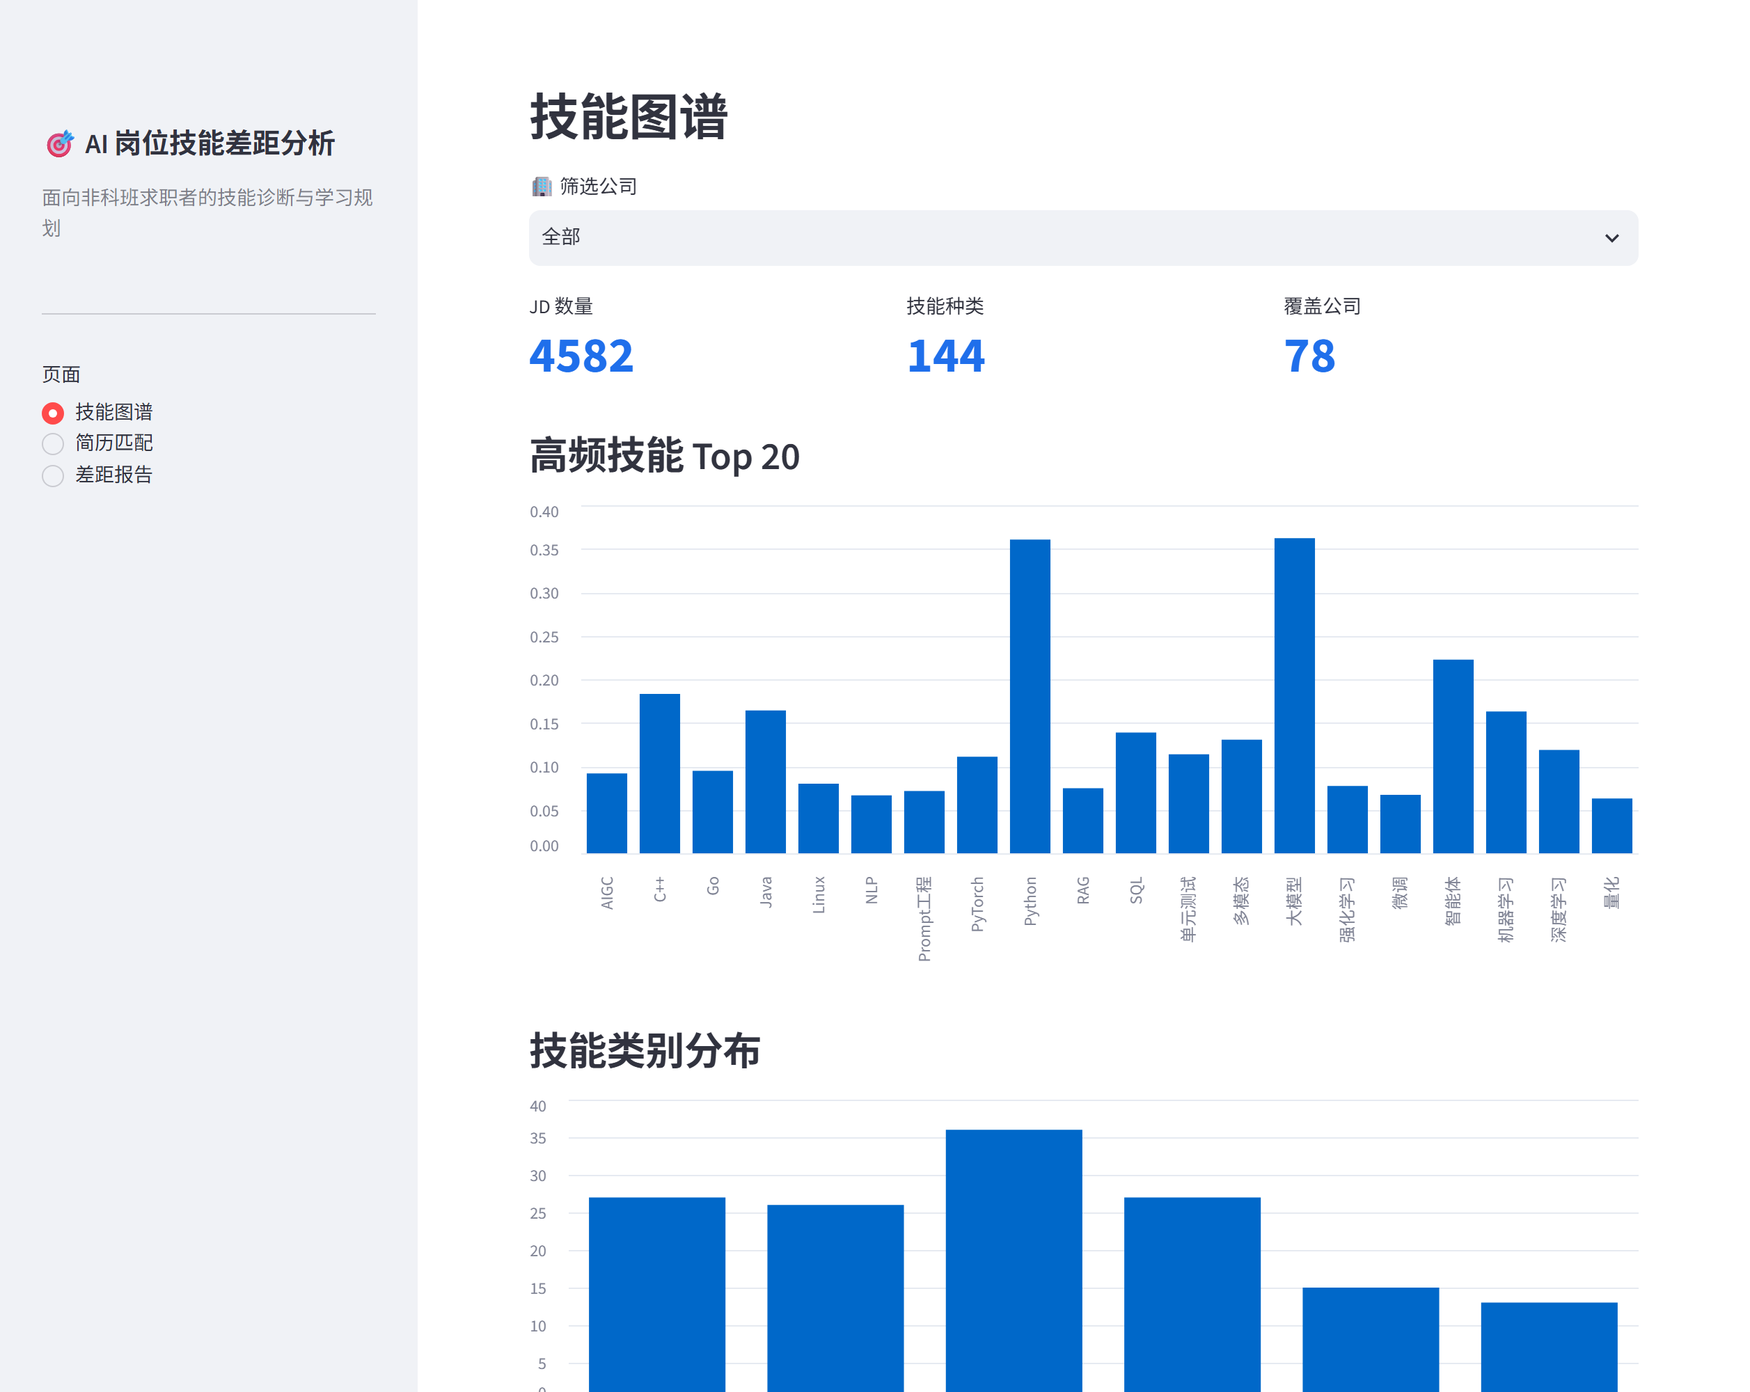
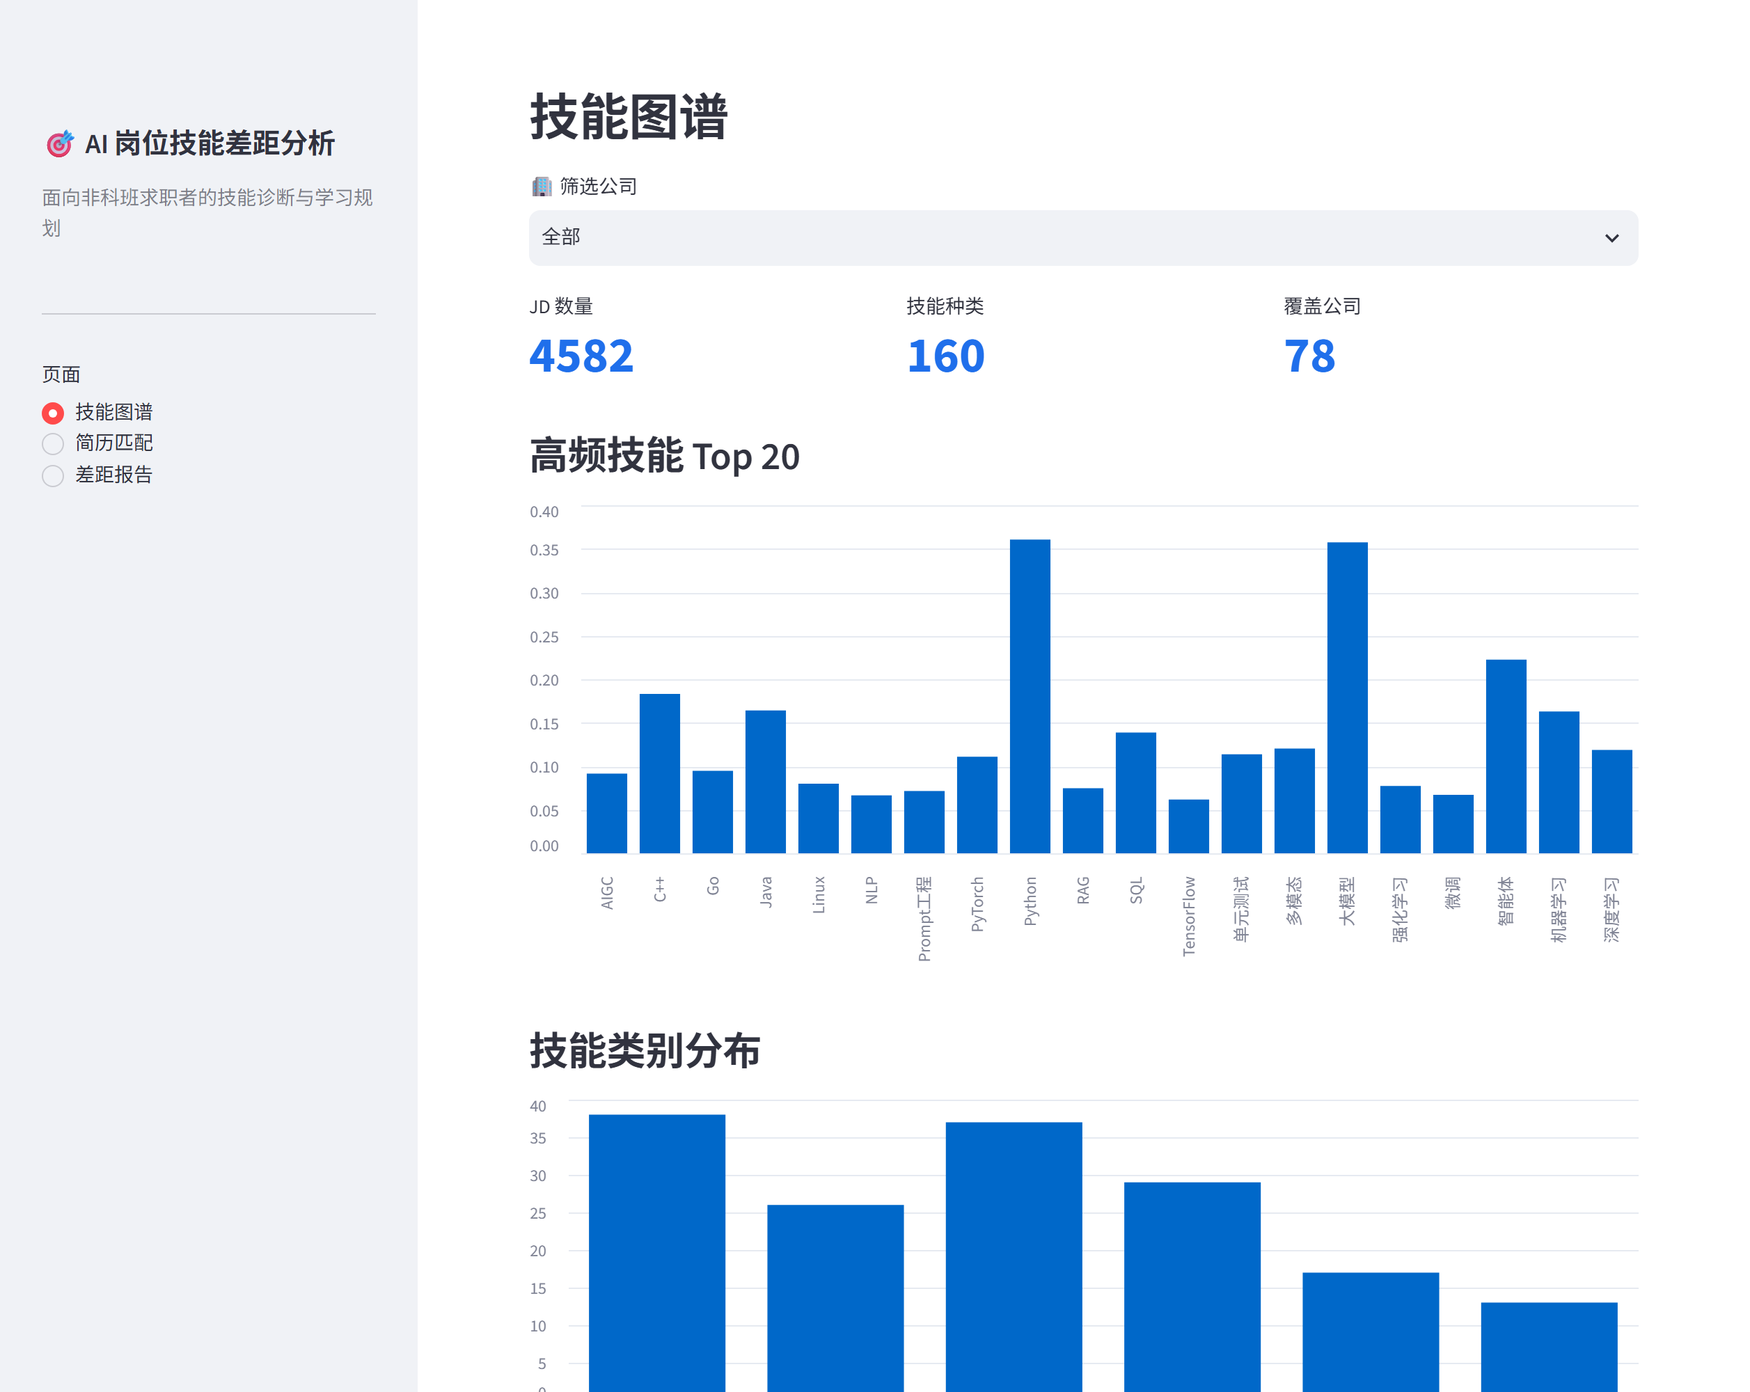
docs: README 增加公司×Top12 技能与多岗对比预览，矩阵按 JD 数排序
- README 界面预览新增两张区域截图（公司×Top12 技能矩阵、多岗对比初始界面），并用实测数字重写两段介绍
- demand_matrix 行序改为 JD 数降序（同数量按名称），避免 1~2 条 JD 的小公司以 0%/100% 占满首屏
- 新增 test_matrix_companies_sorted_by_job_count_desc；测试 207（205 快测 + 2 slow）

diff --git a/scripts/capture_screenshots.py b/scripts/capture_screenshots.py
@@ -3,7 +3,9 @@
 脚本会自行启动一个 headless 服务、截图、再关闭，无需手动 `streamlit run`：
 
     python scripts/capture_screenshots.py                 # 截技能图谱
-    python scripts/capture_screenshots.py --page all      # 截三页
+    python scripts/capture_screenshots.py --page all      # 三页整屏 + 两个重点区域
+    python scripts/capture_screenshots.py --page company_matrix    # 公司 × Top 12 技能矩阵（区域）
+    python scripts/capture_screenshots.py --page gap_compare       # 多岗位对比初始界面（区域）
     python scripts/capture_screenshots.py --page skill_graph --height 1000
 
 依赖：playwright（已装 chromium）、Pillow。
@@ -31,6 +33,29 @@ PAGES = {
     "skill_graph": ("技能图谱", "skill_graph.png", '[data-testid="stVegaLiteChart"]'),
     "resume_match": ("简历匹配", "resume_match.png", '[data-testid="stFileUploader"]'),
     "gap_report": ("差距报告", "gap_report.png", '[data-testid="stSelectbox"]'),
+}
+
+# 区域截图：只截「标题/控件 → 组件」这一块，比整屏图更适合在 README 里单点介绍
+# top_last：侧栏导航本身也是 radio，取最后一个才是主区域的单选框
+SECTIONS = {
+    "company_matrix": {
+        "nav": "技能图谱",
+        "file": "company_skill_matrix.png",
+        "ready": '[data-testid="stDataFrame"]',
+        "top": 'text=公司 × Top 12 技能',
+        "bottom": '[data-testid="stDataFrame"]',
+        "top_last": False,
+    },
+    "gap_compare": {
+        "nav": "差距报告",
+        "file": "gap_compare.png",
+        "ready": '[data-testid="stSelectbox"]',
+        "top": '[data-testid="stRadio"]',
+        "bottom": '[data-testid="stButton"]',
+        "top_last": True,
+        "mode": "多岗位对比",     # 先切到「多岗位对比」模式
+        "company": "DeepSeek",    # 示例公司，与 gap_report.png 保持一致（默认是字母序第一家）
+    },
 }
 
 
@@ -77,9 +102,105 @@ def capture(base: str, page_key: str, height: int, width: int, scale: float) -> 
     return out
 
 
+def _scroll_main_to(page, locator, offset: int = 72) -> None:
+    """Streamlit 的滚动发生在内层 `stMain` 容器里（window 不滚），按元素位置滚到离顶部 offset 处。"""
+    locator.evaluate(
+        """(el, offset) => {
+            const main = document.querySelector('[data-testid="stMain"]')
+                      || document.querySelector('section.main')
+                      || document.querySelector('[data-testid="stAppViewContainer"]');
+            if (!main) return;
+            const delta = el.getBoundingClientRect().top - main.getBoundingClientRect().top;
+            main.scrollTo(0, Math.max(0, main.scrollTop + delta - offset));
+        }""",
+        offset,
+    )
+    page.wait_for_timeout(1200)
+
+
+def _clip_between(page, out: Path, top: dict, bottom: dict, viewport_h: int,
+                  frame: dict | None = None, pad: int = 14) -> tuple:
+    """截图区域 = top 元素上沿 → bottom 元素下沿；横向取主内容列（frame）以免截到控件之间被裁掉。
+
+    Streamlit 的滚动与布局都在内层容器里，`top`/`bottom` 的 bounding_box 是视口坐标；
+    超出视口的部分截到视口底（调用方需先把目标滚进视口）。
+    """
+    if frame:
+        # 左侧从「主内容列左沿」与控件左沿的较大者开始，避免把侧栏边缘带进来
+        left = max(frame["x"], min(top["x"], bottom["x"])) - pad
+        right = max(frame["x"] + frame["width"],
+                    top["x"] + top["width"], bottom["x"] + bottom["width"]) + pad
+    else:
+        left = max(0, min(top["x"], bottom["x"]) - pad)
+        right = max(top["x"] + top["width"], bottom["x"] + bottom["width"]) + pad
+    y = max(0, top["y"] - pad)
+    height = min(bottom["y"] + bottom["height"] + pad, viewport_h) - y
+    page.screenshot(path=str(out), clip={"x": left, "y": y, "width": right - left, "height": height})
+    return right - left, height
+
+
+def _pick_option(page, selectbox_sel: str, label: str) -> None:
+    """在 Streamlit 下拉框里选中指定选项（截图用；Streamlit 的选项在 popover 里，不是原生 select）。"""
+    page.locator(selectbox_sel).last.click()
+    page.wait_for_timeout(800)
+    option = page.get_by_role("option", name=label, exact=True)
+    if option.count():
+        option.first.click()
+    else:                                   # 旧版 Streamlit 的选项没有 role=option
+        page.get_by_text(label, exact=True).last.click()
+    page.wait_for_timeout(2500)               # 选项变更触发 rerun
+
+
+def _main_frame(page) -> dict | None:
+    """主内容列的视口坐标（Streamlit 居中布局下即内容宽度，比逐个控件取并集更稳）。"""
+    return page.evaluate(
+        """() => {
+            const el = document.querySelector('[data-testid="stMainBlockContainer"]')
+                    || document.querySelector('.block-container')
+                    || document.querySelector('[data-testid="stMain"]');
+            if (!el) return null;
+            const r = el.getBoundingClientRect();
+            return {x: r.x, y: r.y, width: r.width, height: r.height};
+        }"""
+    )
+
+
+def capture_section(base: str, page_key: str, height: int, width: int, scale: float) -> Path:
+    from playwright.sync_api import sync_playwright
+
+    spec = SECTIONS[page_key]
+    out = OUT_DIR / spec["file"]
+    OUT_DIR.mkdir(parents=True, exist_ok=True)
+
+    with sync_playwright() as p:
+        browser = p.chromium.launch()
+        page = browser.new_page(viewport={"width": width, "height": height},
+                                device_scale_factor=scale)
+        page.goto(base, wait_until="domcontentloaded", timeout=180_000)
+        page.add_style_tag(content=_HIDE_CSS)
+        if spec["nav"] != "技能图谱":           # 技能图谱是默认页，无需点击
+            page.get_by_text(spec["nav"], exact=True).first.click()
+        page.wait_for_selector(spec["ready"], timeout=180_000)
+        if spec.get("mode"):                   # 差距报告页的「单岗位报告 / 多岗位对比」切换
+            page.get_by_text(spec["mode"], exact=True).first.click()
+            page.wait_for_timeout(3000)
+        if spec.get("company"):                # 选示例公司，避免落到字母序第一家（岗位名不易读）
+            _pick_option(page, '[data-testid="stSelectbox"]', spec["company"])
+        top = page.locator(spec["top"]).last if spec["top_last"] else page.locator(spec["top"]).first
+        bottom = page.locator(spec["bottom"]).last
+        top.wait_for(timeout=180_000)
+        bottom.wait_for(timeout=180_000)
+        _scroll_main_to(page, top, offset=24)
+        page.wait_for_timeout(1000)            # 等滚动后的图表/表格重绘
+        _clip_between(page, out, top.bounding_box(), bottom.bounding_box(),
+                      viewport_h=height, frame=_main_frame(page), pad=14)
+        browser.close()
+    return out
+
+
 def main(argv=None) -> int:
     ap = argparse.ArgumentParser(description="截取 Streamlit 界面预览图")
-    ap.add_argument("--page", default="skill_graph", choices=[*PAGES, "all"])
+    ap.add_argument("--page", default="skill_graph", choices=[*PAGES, *SECTIONS, "all"])
     ap.add_argument("--port", type=int, default=8599)
     ap.add_argument("--width", type=int, default=1257)
     ap.add_argument("--height", type=int, default=1000)
@@ -93,8 +214,13 @@ def main(argv=None) -> int:
             print("Streamlit 启动超时，请检查端口占用或依赖")
             return 1
         keys = list(PAGES) if args.page == "all" else [args.page]
+        if args.page == "all":
+            keys += list(SECTIONS)
         for key in keys:
-            out = capture(base, key, args.height, args.width, args.scale)
+            if key in SECTIONS:
+                out = capture_section(base, key, args.height, args.width, args.scale)
+            else:
+                out = capture(base, key, args.height, args.width, args.scale)
             from PIL import Image
             print(f"{key}: {out} {Image.open(out).size}")
     finally:

diff --git a/src/data/skill_stats.py b/src/data/skill_stats.py
@@ -26,6 +26,8 @@ def demand_matrix(rows, top_n: int = 15) -> dict:
 
     返回 {'skills': [skill_id], 'companies': [...], 'values': [[占比]]}，
     values 与 companies/skills 对齐；占比按「该公司 JD 数」为分母。
+    公司按 JD 数降序（同数量按名称升序）：1~2 条 JD 的公司容易出现 0% / 100%
+    的极端值，排在后面可避免干扰读者对「行业趋势」的判断。
     """
     rows = list(rows or [])
     skills = top_skill_ids(rows, top_n)
@@ -33,7 +35,7 @@ def demand_matrix(rows, top_n: int = 15) -> dict:
     for r in rows:
         by_company.setdefault(str(r.get("company") or ""), []).append(r)
 
-    companies = sorted(by_company)
+    companies = sorted(by_company, key=lambda c: (-len(by_company[c]), c))
     values = []
     for c in companies:
         group = by_company[c]

diff --git a/tests/test_skill_stats.py b/tests/test_skill_stats.py
@@ -42,3 +42,13 @@ def test_matrix_alignment_and_per_company_ratio():
     # 每个公司的占比都按该公司 JD 数为分母
     ic = m["companies"].index("C")
     assert m["values"][ic] == [0.0, 0.0]
+
+
+def test_matrix_companies_sorted_by_job_count_desc():
+    """行序：JD 数多的公司在前，同数量按名称升序（小样本的 0%/100% 不占据首屏）。"""
+    rows = [{"company": c, "skills": ["PROG.PYTHON"]} for c in ("A", "A", "A", "B", "B", "C")]
+    m = demand_matrix(rows, top_n=1)
+    assert m["companies"] == ["A", "B", "C"]
+    # A 有 3 条 JD，若按字母序则会得到同样的结果，故再加一组「字母序相反」的用例
+    rows2 = [{"company": c, "skills": ["PROG.PYTHON"]} for c in ("B", "B", "A")]
+    assert demand_matrix(rows2, top_n=1)["companies"] == ["B", "A"]

diff --git a/memory-bank/progress.md b/memory-bank/progress.md
@@ -36,8 +36,8 @@
   - D4/D5 CI：覆盖率门槛 55%（实测 58%）+ Python 3.10/3.12 矩阵 + pip 缓存 + concurrency；`slow` 标记（全语料遍历）由 nightly 全量跑
   - D6 `scripts/eval_all.py` → `docs/metrics.md`（抽取/匹配/覆盖/阈值四节，无时间戳可 diff），CI main 分支校验报告未过期
   - D7 `scripts/validate_kb.py`（词表 id/别名冲突/类别/难度 + 资源 skill_id/重复 title/非法 url）+ `compileall`，CI 前置拦截
-  - 测试 131 → 201（199 快测 + 2 slow）；全量约 40s
-
+  - 测试 131 → 207（205 快测 + 2 slow）；快测约 35s
+- ✅ README 界面预览补两张「区域截图」（`scripts/capture_screenshots.py --page company_matrix|gap_compare`）：**公司 × Top 12 技能**（技能图谱页 ProgressColumn 矩阵，行=公司按 JD 数降序、值=该公司 JD 命中比例；`demand_matrix` 由公司名字母序改为 JD 数降序，避免 1~2 条 JD 的小公司以 0%/100% 占满首屏，新增 `test_matrix_companies_sorted_by_job_count_desc`）与**多岗位对比初始界面**（差距报告页第二种模式：选公司 → 勾 2~4 岗 → 技能留空沿用简历匹配结果 → 开始对比）；脚本新增区域裁剪（`stMainBlockContainer` 定宽 + 内层 `stMain` 滚动，因为 Streamlit 不滚 window）、模式切换与公司下拉选择，`--page all` 一次出 3 整屏 + 2 区域共 5 张；两段介绍改用实测数字（Top 12 需求占比、跨公司对比、31/78 家 JD≤2 的读图提示）
 
 ## 量化指标（当前）
 | 项 | 值 |
@@ -50,7 +50,7 @@
 | KB 技能覆盖 | 160/161 技能可在 JD 中命中（未命中：联邦学习）；161 = 147 + 新增 16 - 合并 2 |
 | 学习资源覆盖 | 106/161 技能（65.8%），Top 80 需求技能覆盖 77 项 |
 | 回归基线 | 抽取 F1 0.9565(test)/0.9123(全量)、TF-IDF Recall@5 0.9750/0.2200；`docs/metrics.md` 自动生成 |
-| 测试 | 201 用例（slow 2 例 nightly）；覆盖率 58%，CI 门槛 55% |
+| 测试 | 207 用例（205 快测 + 2 slow nightly）；覆盖率 58%，CI 门槛 55% |
 
 ## 待构建（按价值）
 1. 阿里/智谱数据补充（需探查招聘渠道）
@@ -64,7 +64,7 @@
 - 首屏冷启动（v1.3.1）：全语料抽取 24.3s → 1.5s（`str.find` 替代逐 token `re.finditer`，输出逐条一致），默认首屏不再 import sklearn；本机 AppTest 首屏 32s → 3.9s
 - 版本元数据（v1.3.1）：`pyproject.toml` 的 `version` 由 `0.1.0` 对齐为 `1.3.1`；README 加动态 Release 徽章 + 「版本与发布」章节 + 路线图 W10；新增 `docs/RELEASING.md`（含重打 tag 路径）与 `tests/test_release_metadata.py`（pyproject 版本必须等于最新 `docs/release-notes/vX.Y.Z.md`，漏改即红）
 - git 工作区干净，main 与远程一致；tag **v1.3.1** 已发布（补丁：首屏冷启动 + 3.10 CI 修复，正文 `docs/release-notes/v1.3.1.md`；上一版本 v1.3.0「求职闭环与评测加固」）
-- CI 绿：GitHub Actions 全绿（`metrics` + `test (3.10)` + `test (3.12)`；`-m "not slow"`，nightly 跑含 slow 的全量）；**3.10 与 3.12 都跑全量 201 用例（含 3 个 AppTest）**，覆盖率门槛 55% 只在 3.12 上统计（实测 3.10 全套 88s / 3.12 含覆盖率 76s）
+- CI 绿：GitHub Actions 全绿（`metrics` + `test (3.10)` + `test (3.12)`；`-m "not slow"`，nightly 跑含 slow 的全量）；**3.10 与 3.12 都跑全量 204 用例（含 3 个 AppTest）**，覆盖率门槛 55% 只在 3.12 上统计（实测 3.10 全套 88s / 3.12 含覆盖率 76s）
 - AppTest「3.10 超时」根因（已定位并修复）：不是 AppTest 挂起，而是 `pytest --cov` 在 3.10 上走 `sys.settrace` 逐行追踪，把首屏「全语料抽取」的约 160 万次 Python 层 `re.finditer` 放慢约 15 倍（实测正则调用 5.8k/s；3.12 用 PEP 669 `sys.monitoring` 为 80k/s，只慢 1.3 倍）→ 首屏 14.5s 膨胀到 ~240s，正好撞 `default_timeout=240`。修复：CI 在 3.10 上不传 `--cov`（用例全跑），覆盖率门槛保留在 3.12；`tests/test_app.py` 的版本 skip 已删除
 - 首屏冷启动优化：`RuleBaselineExtractor._iter_matches()` 不再「每 token 一次 `re.finditer`」，改为 `str.find` + 手工词边界（CJK token 的 pattern 本来就是 `re.escape`，ASCII token 只多「前后非字母数字」断言，步进规则与 `finditer` 对齐）→ 全语料 4582 条抽取 **24.3s → 1.5s**（同机 3.12）；`tests/test_rule_baseline.py::test_iter_matches_equivalent_to_regex_reference` 用旧正则做参照逐位置比对，全语料输出逐条一致。同时 `src/app/app.py` 把 `load_core()` 拆成「轻核心（词表 + 抽取器）」+ `load_engine()`（TF-IDF / 差距分析，才 import sklearn，本机冷导入 4.5s），默认首屏「技能图谱」不再付 sklearn 开销 → AppTest 首屏 **32s → 3.9s**（本机；仅抽优化后是 8.8s）；新增 `scripts/bench_extract.py` 复现抽取耗时
 - CI 失败可见性：失败用例写入 check-run 注解 + job summary，并上传 `pytest.log` 产物（无需登录 Actions 即可用 API 查看）

diff --git a/README.md b/README.md
@@ -68,8 +68,8 @@ ai-skill-gap/
 │   ├── crawler/        11 源爬虫（腾讯/字节/小米社招/小米校招/DeepSeek/Kimi/MiniMax/快手/小红书/华为 + 英文科技岗位）
 │   └── app/            Streamlit 三页面 + report_export（报告导出）
 ├── scripts/            setup_env / check_env / merge_jobs / recrawl_all / recalc_importance / eval_all(评测) / validate_kb(KB 校验)
-├── tests/              pytest（201 用例已通过；slow 标记留给 nightly）
-├── docs/               images/（README 界面预览截图 3 张，scripts/capture_screenshots.py 可重截）+ metrics.md（自动生成的回归基线）
+├── tests/              pytest（205 用例已通过，另有 2 个 slow 留给 nightly）
+├── docs/               images/（README 界面预览截图 5 张，scripts/capture_screenshots.py 可重截）+ metrics.md（自动生成的回归基线）
 ├── models/             模型与缓存（重资产，git 忽略）
 ├── requirements.txt
 └── README.md
@@ -110,6 +110,14 @@ powershell -ExecutionPolicy Bypass -File scripts/setup_env.ps1
 
 ![技能图谱](docs/images/skill_graph.png)
 
+**公司 × Top 12 技能**（技能图谱页）：把全行业需求最高的 12 项技能放进同一张表，对比各家公司的「技能偏好」
+
+- 行 = 公司（按 JD 数降序，样本量大的在前）；列 = 全行业需求占比 Top 12（Python 36.1%、大模型 35.7%、智能体 22.3%、C++ 18.3%、Java 16.4% …），12 列可横向滚动（截图为前 6 列）
+- 数值 = 该公司 JD 中提到该技能的比例。横向看同一技能的公司差异（大模型：字节 62% / MiniMax 59% / DeepSeek 58%，快手 29%），纵向看一家公司的长短板（腾讯「智能体」43%，明显高于行业的 22.3%）
+- 读图提示：78 家里有 31 家 JD ≤ 2 条，这类行容易出现 0% / 100% 的极端值，看趋势请优先看 JD 数多的行；顶部「筛选公司」选「全部」是行业画像，选中某一家则只统计该公司的 JD
+
+![公司 × Top 12 技能](docs/images/company_skill_matrix.png)
+
 **简历匹配**：上传简历 → 结构化解析（正则 + DeepSeek LLM，含工作经历细粒度：职责/量化成果/技术栈）→ 技能提取 → ATS 建议
 
 ![简历匹配](docs/images/resume_match.png)
@@ -117,6 +125,14 @@ powershell -ExecutionPolicy Bypass -File scripts/setup_env.ps1
 **差距报告**：选公司 → 搜岗位 → 选目标岗位 → 生成差距报告（缺失技能 + 优先补充建议）
 
 ![差距报告](docs/images/gap_report.png)
+
+**多岗位对比**（差距报告页的第二种分析模式）：同一套技能，横向比较 2~4 个岗位的匹配度与缺口差异
+
+- 操作：选公司 → 勾 2~4 个岗位（技能留空即沿用「简历匹配」页的解析结果）→ 点「开始对比」
+- 产出：**优先投递**建议（匹配度最高）、逐岗 匹配度 / 命中 / 缺口 / P0 缺口，以及**共性缺口**（所有岗位都缺，优先补）与**各岗独有缺口**（决定往哪个方向专精）
+- 截图为初始界面：已选 DeepSeek 与 2 个岗位，尚未点击「开始对比」
+
+![多岗位对比](docs/images/gap_compare.png)
 
 ### Docker 方式（可选）
 
